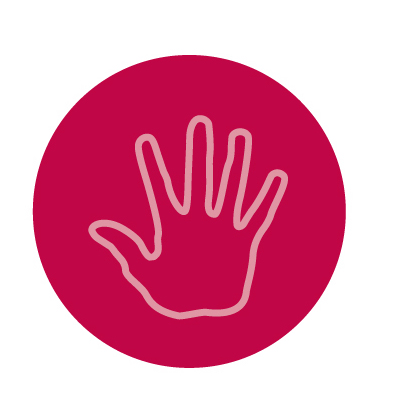
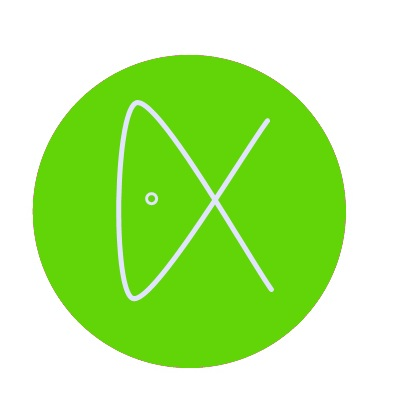
added favico

diff --git a/assets/themes/the-zen/css/main.css b/assets/themes/the-zen/css/main.css
@@ -1,1 +1,1 @@
-@import url(http://fonts.googleapis.com/css?family=PT+Sans);@import url(http://fonts.googleapis.com/css?family=Gentium+Book+Basic);@import url(http://fonts.googleapis.com/css?family=Milonga);article,aside,details,figcaption,figure,footer,header,hgroup,nav,section{display:block}audio,canvas,video{display:inline-block;*display:inline;*zoom:1}audio:not([controls]){display:none}[hidden]{display:none}html{font-size:100%;-webkit-text-size-adjust:100%;-ms-text-size-adjust:100%}html,button,input,select,textarea{font-family:sans-serif;color:#222}body{margin:0;font-size:1em;line-height:1.4}::-moz-selection{background:#bd0b48;color:#fff;text-shadow:none}::selection{background:#bd0b48;color:#fff;text-shadow:none}a{color:#00e}a:visited{color:#551a8b}a:hover{color:#06e}a:focus{outline:thin dotted}a:hover,a:active{outline:0}abbr[title]{border-bottom:1px dotted}b,strong{font-weight:700}blockquote{margin:1em 40px}dfn{font-style:italic}hr{display:block;height:1px;border:0;border-top:1px solid #ccc;margin:1em 0;padding:0}ins{background:#ff9;color:#000;text-decoration:none}mark{background:#ff0;color:#000;font-style:italic;font-weight:700}pre,code,kbd,samp{font-family:monospace,serif;_font-family:'courier new',monospace;font-size:1em}pre{white-space:pre;white-space:pre-wrap;word-wrap:break-word}q{quotes:none}q:before,q:after{content:"";content:none}small{font-size:85%}sub,sup{font-size:75%;line-height:0;position:relative;vertical-align:baseline}sup{top:-.5em}sub{bottom:-.25em}ul,ol{margin:1em 0;padding:0 0 0 40px}dd{margin:0 0 0 40px}nav ul,nav ol{list-style:none;list-style-image:none;margin:0;padding:0}img{border:0;-ms-interpolation-mode:bicubic;vertical-align:middle}svg:not(:root){overflow:hidden}figure{margin:0}form{margin:0}fieldset{border:0;margin:0;padding:0}label{cursor:pointer}legend{border:0;*margin-left:-7px;padding:0;white-space:normal}button,input,select,textarea{font-size:100%;margin:0;vertical-align:baseline;*vertical-align:middle}button,input{line-height:normal}button,input[type="button"],input[type="reset"],input[type="submit"]{cursor:pointer;-webkit-appearance:button;*overflow:visible}button[disabled],input[disabled]{cursor:default}input[type="checkbox"],input[type="radio"]{box-sizing:border-box;padding:0;*width:13px;*height:13px}input[type="search"]{-webkit-appearance:textfield;-moz-box-sizing:content-box;-webkit-box-sizing:content-box;box-sizing:content-box}input[type="search"]::-webkit-search-decoration,input[type="search"]::-webkit-search-cancel-button{-webkit-appearance:none}button::-moz-focus-inner,input::-moz-focus-inner{border:0;padding:0}textarea{overflow:auto;vertical-align:top;resize:vertical}input:invalid,textarea:invalid{background-color:#f0dddd}table{border-collapse:collapse;border-spacing:0}td{vertical-align:top}.chromeframe{margin:.2em 0;background:#ccc;color:#000;padding:.2em 0}body{width:100%;*zoom:1;*zoom:1}body:before,body:after{content:"";display:table}body:after{clear:both}a,a:link,a:visited,a:active{color:#000;text-decoration:none;border-bottom:1px solid #CCC}a:hover,a:link:hover,a:visited:hover,a:active:hover{border-color:#bd0b48}body{overflow-y:scroll;background-color:#fff;color:#000;font-family:'PT Sans',Helvetica,sans-serif;font-size:13px;line-height:1.231;-webkit-font-smoothing:subpixel-antialiased}h1,h2,h3,h4,h5,h6{color:#3A3A3A;margin-top:30px;margin-bottom:25px}h3{font-size:20px;font-weight:600}a:hover{color:#333;cursor:pointer}section#info{padding-left:10px}section#info h1{width:100%;display:block;margin-left:-20px}section#info h1 a{font-family:"Gentium Book Basic",serif;font-weight:900;display:block;border:0;padding-left:20px}section#info h1 a:hover{color:#bd0b48}section#info aside{display:none}section#info aside p{font-size:10px}#tagline{display:block;font-weight:300;margin:-10px 0 0;font-size:12px;line-height:20px;color:#585C60;width:100%;text-align:center}#user_logo{margin:5px;width:64px;height:64px;display:block;border:5px solid #F8F8F8;-webkit-border-top-right-radius:50%;-webkit-border-bottom-right-radius:50%;-webkit-border-bottom-left-radius:50%;-webkit-border-top-left-radius:50%;-moz-border-radius-topright:50%;-moz-border-radius-bottomright:50%;-moz-border-radius-bottomleft:50%;-moz-border-radius-topleft:50%;border-top-right-radius:50%;border-bottom-right-radius:50%;border-bottom-left-radius:50%;border-top-left-radius:50%;-moz-background-clip:padding;-webkit-background-clip:padding-box;background-clip:padding-box;position:fixed;top:5px;margin-left:87%;z-index:3}a.logo{width:42px;height:42px;display:block;margin:11px;border:0}a.logo div.img{background:url(/assets/img/hand.png) center center no-repeat;background-size:75% 75%;height:42px;width:42px;display:block;-webkit-border-top-right-radius:50%;-webkit-border-bottom-right-radius:50%;-webkit-border-bottom-left-radius:50%;-webkit-border-top-left-radius:50%;-moz-border-radius-topright:50%;-moz-border-radius-bottomright:50%;-moz-border-radius-bottomleft:50%;-moz-border-radius-topleft:50%;border-top-right-radius:50%;border-bottom-right-radius:50%;border-bottom-left-radius:50%;border-top-left-radius:50%;-moz-background-clip:padding;-webkit-background-clip:padding-box;background-clip:padding-box;background-color:#bd0b48}.contact{position:absolute;top:-5px;right:5px}.contact li{padding-top:8px;padding-bottom:16px;display:block;text-align:center}.contact li a{font-family:"Gentium Book Basic",serif;font-size:10px;border:3px solid #F8F8F8;-webkit-border-top-right-radius:30px;-webkit-border-bottom-right-radius:30px;-webkit-border-bottom-left-radius:30px;-webkit-border-top-left-radius:30px;-moz-border-radius-topright:30px;-moz-border-radius-bottomright:30px;-moz-border-radius-bottomleft:30px;-moz-border-radius-topleft:30px;border-top-right-radius:30px;border-bottom-right-radius:30px;border-bottom-left-radius:30px;border-top-left-radius:30px;-moz-background-clip:padding;-webkit-background-clip:padding-box;background-clip:padding-box;background-color:#fff;padding:7px;padding-left:15px;padding-right:15px;color:#999}.contact li a:hover{border-color:#bd0b48}.contact li.rss{display:none}section#content{border-left:1px solid #E2E2E2;border-right:1px solid #E2E2E2;border-bottom:1px solid #E2E2E2;background-color:rgba(255,255,255,.95);position:relative;z-index:1;margin-top:5px;border:1px solid rgba(0,0,0,.05);-moz-box-shadow:inset 0 0 10px #BDB9B9;-webkit-box-shadow:inset 0 0 10px #BDB9B9;box-shadow:inset 0 0 10px #BDB9B9}section#content header{border-top:1px solid #E2E2E2;padding:10px 20px;min-height:50px}section#content header h2{font-size:2em;margin:0}section#content #welcome{border-bottom:3px solid #BD0B48;padding-top:50px;}section#content #welcome h2,section#content #welcome p{margin:7px 0}section#content #welcome blockquote a{font-weight:700;color:#BD0B48}h3.date{margin-bottom:5px;text-transform:uppercase;color:#000;font-weight:800;font-size:14px;letter-spacing:1px}article{padding:10px 20px;position:relative;border-bottom:1px solid #bd0b48}article.post-page{border:0}article p{font-size:15px;line-height:25px;margin-top:20px;margin-bottom:20px;color:#4D4D4D;font-family:'proxima-nova',sans-serif;font-weight:400}article h1{font-size:24px}article h2{margin-top:15px}article h3{margin:10px 0;font-size:18px}article h4{margin:10px 0;font-size:16px;font-weight:300}article h5{font-size:16px}article ul,article ol{font-size:15px;line-height:25px;color:#4D4D4D;font-family:'proxima-nova',sans-serif;font-weight:400;width:85%}article blockquote{border-left:10px solid #bd0b48;padding-left:20px;display:inline-block;padding-bottom:0;margin-left:0;font-size:15px;line-height:25px;margin-top:5px;margin-bottom:10px;color:#4D4D4D;font-family:'proxima-nova',sans-serif}article footer{border-top:1px solid #bd0b48;margin-top:10px;padding-top:10px;position:relative}article footer nav{height:30px;float:left}article footer nav li{float:left;margin-right:5px;display:inline-block;font-size:10px}article footer p{font-size:10px;margin:0;text-align:right}.meta ul,.meta p{margin:5px 0;font-size:1.1em}.meta li{display:inline-block;line-height:1em;margin-right:10px}.meta li.list-head{margin-right:0}.list-category span,.list-tag span,.tag_box span{background-color:#8d0836;padding:1px 5px;-webkit-border-top-right-radius:7px;-webkit-border-bottom-right-radius:7px;-webkit-border-bottom-left-radius:7px;-webkit-border-top-left-radius:7px;-moz-border-radius-topright:7px;-moz-border-radius-bottomright:7px;-moz-border-radius-bottomleft:7px;-moz-border-radius-topleft:7px;border-top-right-radius:7px;border-bottom-right-radius:7px;border-bottom-left-radius:7px;border-top-left-radius:7px;-moz-background-clip:padding;-webkit-background-clip:padding-box;background-clip:padding-box;color:#fff;text-transform:uppercase;margin:0 6px 0 0;display:inline-block;position:relative;vertical-align:middle;top:-2px;font-weight:700;font-size:10px;-webkit-transition:all .3s ease-out;-moz-transition:all .3s ease-out;transition:all .3s ease-out}.list-category a,.list-tag a{margin-bottom:0;text-transform:capitalize;border:0}.list-category a:hover span,.list-tag a:hover span{background-color:#bd0b48}.vcard2 li{display:inline-block;padding-right:10px}.nav-global{text-transform:lowercase;font-variant:small-caps;font-size:1.2em;position:fixed;text-align:right;top:15px;width:220px;margin-right:-110px;right:50%;z-index:2}.nav-global li{margin:5px 0 0;float:left}.nav-global li a{border:3px solid #F8F8F8;border-radius:30px;-moz-border-radius:30px;-webkit-border-radius:30px;background-color:#fff;padding:7px;padding-left:15px;padding-right:15px;color:#999}.nav-global li a:hover{border-color:#bd0b48}.nav-global .active{opacity:.5}.nav-global .active:hover{opacity:1}.tag_box{list-style:none;padding:.8125em;max-width:400px;background:url('/assets/themes/the-zen/skin/100-90-5-monochrome.png') repeat 0 0 #999;list-style:none;-webkit-border-radius:3px;-moz-border-radius:3px;border-radius:3px;-moz-background-clip:padding;-webkit-background-clip:padding-box;background-clip:padding-box;-webkit-box-shadow:inset 0 1px 1px rgba(0,0,0,.2),0 1px 0 rgba(255,255,255,.4);-moz-box-shadow:inset 0 1px 1px rgba(0,0,0,.2),0 1px 0 rgba(255,255,255,.4);box-shadow:inset 0 1px 1px rgba(0,0,0,.4),0 1px 0 rgba(255,255,255,.4)}.tag_box li{display:inline-block;line-height:normal;vertical-align:middle}.tag_box a{background-color:#ccc;float:left;border:1px solid #2c0311;padding:3px 6px 3px 6px;-webkit-border-radius:3px;-moz-border-radius:3px;border-radius:3px;margin:5px;-moz-background-clip:padding;-webkit-background-clip:padding-box;background-clip:padding-box;text-shadow:0 -1px 0 rgba(255,255,255,.4);-webkit-box-shadow:inset 0 1px 0 rgba(255,255,255,.4),0 1px 1px rgba(0,0,0,.2);-moz-box-shadow:inset 0 1px 0 rgba(255,255,255,.4),0 1px 1px rgba(0,0,0,.2);box-shadow:inset 0 1px 0 rgba(255,255,255,.4),0 1px 1px rgba(0,0,0,.2);-webkit-transition:all .3s ease-out;-moz-transition:all .3s ease-out;transition:all .3s ease-out;-webkit-user-select:none;-moz-user-select:none;-ms-user-select:none;user-select:none}.tag_box a:active{-webkit-box-shadow:inset 0 1px 4px rgba(0,0,0,.6);-moz-box-shadow:inset 0 1px 4px rgba(0,0,0,.6);box-shadow:inset 0 1px 4px rgba(0,0,0,.6);background:#000;border:solid #000}.tag_box a:hover{background-color:#bd0b48;border:1px solid #000}.tag_box a:hover span{background-color:#e1e1e1;color:#bd0b48}.long-list h2{margin:10px 0;text-transform:capitalize}.long-list ul{margin:0}#headshot{width:100%}#headshot img{display:block;margin:0 auto}@media only screen and (min-width: 775px){section#info{ display:inline;float:left;width:140px;margin:0 10px;position:fixed;top:0;left:0;right:auto;bottom:0;min-height:525px;z-index:0;margin:0;padding:25px}section#info h1{margin-top:30px}section#info h1 a{display:block;border:0}section#info header{width:225px}section#info aside{display:block;position:absolute;left:25px;bottom:15px;font-size:10px;color:#777;width:125px}#user_logo{margin:10px 0 0 730px;-webkit-transition:border-color 2s ease-out;-moz-transition:border-color 2s ease-out;transition:border-color 2s ease-out}#user_logo:hover{border-color:#bd0b48}#tagline{text-align:left;margin-bottom:20px}.contact{position:relative}.contact li{clear:both;display:block;padding-top:10px;padding-bottom:20px;text-align:left}.contact li a{border:3px solid #F8F8F8;border-radius:30px;-moz-border-radius:30px;-webkit-border-radius:30px;background-color:#fff;padding:7px;padding-left:15px;padding-right:15px;color:#999}.contact li a:hover{border-color:#bd0b48}.contact li.rss{display:block}section#content{width:570px;margin-left:170px;padding-top:15px;margin-top:0}section#content header{border:0}article h3.date{top:10px;width:120px;font-style:italic}article p{width:500px}article h2,article h3,article h4,article h5{width:500px}article footer p{width:100%}article ul,article ol{width:425px}.nav-global{margin:10px 0 0 658px;top:95px;right:auto;text-transform:lowercase;font-variant:small-caps;font-size:1.2em}.nav-global li{display:block;float:none;margin-bottom:30px;text-align:center}.nav-global li:last-child::after{content:''}#headshot{float:right;width:auto;display:inline-block;margin:20px 20px 70px 20px}}@media only screen and (min-width: 1000px){section#info{ display:inline;float:left;width:300px;margin:0 10px;padding:30px 10px}section#info h1 a{font-size:38px;line-height:60px}section#info aside{width:200px;left:20px}#user_logo{width:120px;height:120px;margin:20px 0 0 893px;right:20px}a.logo{width:120px;height:120px;margin:18px}a.logo div.img{height:84px;width:84px}#tagline{font-size:17px;line-height:25px;color:#585C60;width:200px}.contact{margin-top:50px}.contact li a{font-size:16px}section#content{width:625px;margin:0 auto}section#content header{padding:10px 40px;padding-left:50px}section#content header h2{font-size:2em}article{padding:10px 40px;padding-left:50px}article h2{margin-top:20px}article h3.date{top:47px}article h2,article h3,article h4,article h5,article p{width:525px}article blockquote,article blockquote p{width:450px}.nav-global{top:160px;right:-25px}}.no-bullet{list-style-type:none}.no-style{list-style-type:none;padding:0}.ir{border:0;font:0/0 a;text-shadow:none;color:transparent;background-color:transparent}.hidden{display:none!important;visibility:hidden}.visuallyhidden{border:0;clip:rect(0);height:1px;margin:-1px;overflow:hidden;padding:0;position:absolute;width:1px}.visuallyhidden.focusable:active,.visuallyhidden.focusable:focus{clip:auto;height:auto;margin:0;overflow:visible;position:static;width:auto}.invisible{visibility:hidden}.clearfix:before,.clearfix:after{content:"";display:table}.clearfix:after{clear:both}.clearfix{*zoom:1}@media print{*{ background:transparent!important;color:#000!important;box-shadow:none!important;text-shadow:none!important}a,a:visited{text-decoration:underline}a[href]:after{content:" (" attr(href) ")"}abbr[title]:after{content:" (" attr(title) ")"}.ir a:after,a[href^="javascript:"]:after,a[href^="#"]:after{content:""}pre,blockquote{border:1px solid #999;page-break-inside:avoid}thead{display:table-header-group}tr,img{page-break-inside:avoid}img{max-width:100%!important}@page{margin:.5cm}p,h2,h3{orphans:3;widows:3}h2,h3{page-break-after:avoid}}
+@import url(http://fonts.googleapis.com/css?family=PT+Sans);@import url(http://fonts.googleapis.com/css?family=Gentium+Book+Basic);@import url(http://fonts.googleapis.com/css?family=Milonga);article,aside,details,figcaption,figure,footer,header,hgroup,nav,section{display:block}audio,canvas,video{display:inline-block;*display:inline;*zoom:1}audio:not([controls]){display:none}[hidden]{display:none}html{font-size:100%;-webkit-text-size-adjust:100%;-ms-text-size-adjust:100%}html,button,input,select,textarea{font-family:sans-serif;color:#222}body{margin:0;font-size:1em;line-height:1.4}::-moz-selection{background:#61D507;color:#fff;text-shadow:none}::selection{background:#61D507;color:#fff;text-shadow:none}a{color:#00e}a:visited{color:#551a8b}a:hover{color:#06e}a:focus{outline:thin dotted}a:hover,a:active{outline:0}abbr[title]{border-bottom:1px dotted}b,strong{font-weight:700}blockquote{margin:1em 40px}dfn{font-style:italic}hr{display:block;height:1px;border:0;border-top:1px solid #ccc;margin:1em 0;padding:0}ins{background:#ff9;color:#000;text-decoration:none}mark{background:#ff0;color:#000;font-style:italic;font-weight:700}pre,code,kbd,samp{font-family:monospace,serif;_font-family:'courier new',monospace;font-size:1em}pre{white-space:pre;white-space:pre-wrap;word-wrap:break-word}q{quotes:none}q:before,q:after{content:"";content:none}small{font-size:85%}sub,sup{font-size:75%;line-height:0;position:relative;vertical-align:baseline}sup{top:-.5em}sub{bottom:-.25em}ul,ol{margin:1em 0;padding:0 0 0 40px}dd{margin:0 0 0 40px}nav ul,nav ol{list-style:none;list-style-image:none;margin:0;padding:0}img{border:0;-ms-interpolation-mode:bicubic;vertical-align:middle}svg:not(:root){overflow:hidden}figure{margin:0}form{margin:0}fieldset{border:0;margin:0;padding:0}label{cursor:pointer}legend{border:0;*margin-left:-7px;padding:0;white-space:normal}button,input,select,textarea{font-size:100%;margin:0;vertical-align:baseline;*vertical-align:middle}button,input{line-height:normal}button,input[type="button"],input[type="reset"],input[type="submit"]{cursor:pointer;-webkit-appearance:button;*overflow:visible}button[disabled],input[disabled]{cursor:default}input[type="checkbox"],input[type="radio"]{box-sizing:border-box;padding:0;*width:13px;*height:13px}input[type="search"]{-webkit-appearance:textfield;-moz-box-sizing:content-box;-webkit-box-sizing:content-box;box-sizing:content-box}input[type="search"]::-webkit-search-decoration,input[type="search"]::-webkit-search-cancel-button{-webkit-appearance:none}button::-moz-focus-inner,input::-moz-focus-inner{border:0;padding:0}textarea{overflow:auto;vertical-align:top;resize:vertical}input:invalid,textarea:invalid{background-color:#f0dddd}table{border-collapse:collapse;border-spacing:0}td{vertical-align:top}.chromeframe{margin:.2em 0;background:#ccc;color:#000;padding:.2em 0}body{width:100%;*zoom:1;*zoom:1}body:before,body:after{content:"";display:table}body:after{clear:both}a,a:link,a:visited,a:active{color:#000;text-decoration:none;border-bottom:1px solid #CCC}a:hover,a:link:hover,a:visited:hover,a:active:hover{border-color:#61D507}body{overflow-y:scroll;background-color:#fff;color:#000;font-family:'PT Sans',Helvetica,sans-serif;font-size:13px;line-height:1.231;-webkit-font-smoothing:subpixel-antialiased}h1,h2,h3,h4,h5,h6{color:#3A3A3A;margin-top:30px;margin-bottom:25px}h3{font-size:20px;font-weight:600}a:hover{color:#333;cursor:pointer}section#info{padding-left:10px}section#info h1{width:100%;display:block;margin-left:-20px}section#info h1 a{font-family:"Gentium Book Basic",serif;font-weight:900;display:block;border:0;padding-left:20px}section#info h1 a:hover{color:#61D507}section#info aside{display:none}section#info aside p{font-size:10px}#tagline{display:block;font-weight:300;margin:-10px 0 0;font-size:12px;line-height:20px;color:#585C60;width:100%;text-align:center}#user_logo{margin:5px;width:64px;height:64px;display:block;border:5px solid #F8F8F8;-webkit-border-top-right-radius:50%;-webkit-border-bottom-right-radius:50%;-webkit-border-bottom-left-radius:50%;-webkit-border-top-left-radius:50%;-moz-border-radius-topright:50%;-moz-border-radius-bottomright:50%;-moz-border-radius-bottomleft:50%;-moz-border-radius-topleft:50%;border-top-right-radius:50%;border-bottom-right-radius:50%;border-bottom-left-radius:50%;border-top-left-radius:50%;-moz-background-clip:padding;-webkit-background-clip:padding-box;background-clip:padding-box;position:fixed;top:5px;margin-left:87%;z-index:3}a.logo{width:42px;height:42px;display:block;margin:11px;border:0}a.logo div.img{background:url(/assets/img/hand.png) center center no-repeat;background-size:75% 75%;height:42px;width:42px;display:block;-webkit-border-top-right-radius:50%;-webkit-border-bottom-right-radius:50%;-webkit-border-bottom-left-radius:50%;-webkit-border-top-left-radius:50%;-moz-border-radius-topright:50%;-moz-border-radius-bottomright:50%;-moz-border-radius-bottomleft:50%;-moz-border-radius-topleft:50%;border-top-right-radius:50%;border-bottom-right-radius:50%;border-bottom-left-radius:50%;border-top-left-radius:50%;-moz-background-clip:padding;-webkit-background-clip:padding-box;background-clip:padding-box;background-color:#61D507}.contact{position:absolute;top:-5px;right:5px}.contact li{padding-top:8px;padding-bottom:16px;display:block;text-align:center}.contact li a{font-family:"Gentium Book Basic",serif;font-size:10px;border:3px solid #F8F8F8;-webkit-border-top-right-radius:30px;-webkit-border-bottom-right-radius:30px;-webkit-border-bottom-left-radius:30px;-webkit-border-top-left-radius:30px;-moz-border-radius-topright:30px;-moz-border-radius-bottomright:30px;-moz-border-radius-bottomleft:30px;-moz-border-radius-topleft:30px;border-top-right-radius:30px;border-bottom-right-radius:30px;border-bottom-left-radius:30px;border-top-left-radius:30px;-moz-background-clip:padding;-webkit-background-clip:padding-box;background-clip:padding-box;background-color:#fff;padding:7px;padding-left:15px;padding-right:15px;color:#999}.contact li a:hover{border-color:#61D507}.contact li.rss{display:none}section#content{border-left:1px solid #E2E2E2;border-right:1px solid #E2E2E2;border-bottom:1px solid #E2E2E2;background-color:rgba(255,255,255,.95);position:relative;z-index:1;margin-top:5px;border:1px solid rgba(0,0,0,.05);-moz-box-shadow:inset 0 0 10px #BDB9B9;-webkit-box-shadow:inset 0 0 10px #BDB9B9;box-shadow:inset 0 0 10px #BDB9B9}section#content header{border-top:1px solid #E2E2E2;padding:10px 20px;min-height:50px}section#content header h2{font-size:2em;margin:0}section#content #welcome{border-bottom:3px solid #61D507;padding-top:50px;}section#content #welcome h2,section#content #welcome p{margin:7px 0}section#content #welcome blockquote a{font-weight:700;color:#61D507}h3.date{margin-bottom:5px;text-transform:uppercase;color:#000;font-weight:800;font-size:14px;letter-spacing:1px}article{padding:10px 20px;position:relative;border-bottom:1px solid #61D507}article.post-page{border:0}article p{font-size:15px;line-height:25px;margin-top:20px;margin-bottom:20px;color:#4D4D4D;font-family:'proxima-nova',sans-serif;font-weight:400}article h1{font-size:24px}article h2{margin-top:15px}article h3{margin:10px 0;font-size:18px}article h4{margin:10px 0;font-size:16px;font-weight:300}article h5{font-size:16px}article ul,article ol{font-size:15px;line-height:25px;color:#4D4D4D;font-family:'proxima-nova',sans-serif;font-weight:400;width:85%}article blockquote{border-left:10px solid #61D507;padding-left:20px;display:inline-block;padding-bottom:0;margin-left:0;font-size:15px;line-height:25px;margin-top:5px;margin-bottom:10px;color:#4D4D4D;font-family:'proxima-nova',sans-serif}article footer{border-top:1px solid #61D507;margin-top:10px;padding-top:10px;position:relative}article footer nav{height:30px;float:left}article footer nav li{float:left;margin-right:5px;display:inline-block;font-size:10px}article footer p{font-size:10px;margin:0;text-align:right}.meta ul,.meta p{margin:5px 0;font-size:1.1em}.meta li{display:inline-block;line-height:1em;margin-right:10px}.meta li.list-head{margin-right:0}.list-category span,.list-tag span,.tag_box span{background-color:#8d0836;padding:1px 5px;-webkit-border-top-right-radius:7px;-webkit-border-bottom-right-radius:7px;-webkit-border-bottom-left-radius:7px;-webkit-border-top-left-radius:7px;-moz-border-radius-topright:7px;-moz-border-radius-bottomright:7px;-moz-border-radius-bottomleft:7px;-moz-border-radius-topleft:7px;border-top-right-radius:7px;border-bottom-right-radius:7px;border-bottom-left-radius:7px;border-top-left-radius:7px;-moz-background-clip:padding;-webkit-background-clip:padding-box;background-clip:padding-box;color:#fff;text-transform:uppercase;margin:0 6px 0 0;display:inline-block;position:relative;vertical-align:middle;top:-2px;font-weight:700;font-size:10px;-webkit-transition:all .3s ease-out;-moz-transition:all .3s ease-out;transition:all .3s ease-out}.list-category a,.list-tag a{margin-bottom:0;text-transform:capitalize;border:0}.list-category a:hover span,.list-tag a:hover span{background-color:#61D507}.vcard2 li{display:inline-block;padding-right:10px}.nav-global{text-transform:lowercase;font-variant:small-caps;font-size:1.2em;position:fixed;text-align:right;top:15px;width:220px;margin-right:-110px;right:50%;z-index:2}.nav-global li{margin:5px 0 0;float:left}.nav-global li a{border:3px solid #F8F8F8;border-radius:30px;-moz-border-radius:30px;-webkit-border-radius:30px;background-color:#fff;padding:7px;padding-left:15px;padding-right:15px;color:#999}.nav-global li a:hover{border-color:#61D507}.nav-global .active{opacity:.5}.nav-global .active:hover{opacity:1}.tag_box{list-style:none;padding:.8125em;max-width:400px;background:url('/assets/themes/the-zen/skin/100-90-5-monochrome.png') repeat 0 0 #999;list-style:none;-webkit-border-radius:3px;-moz-border-radius:3px;border-radius:3px;-moz-background-clip:padding;-webkit-background-clip:padding-box;background-clip:padding-box;-webkit-box-shadow:inset 0 1px 1px rgba(0,0,0,.2),0 1px 0 rgba(255,255,255,.4);-moz-box-shadow:inset 0 1px 1px rgba(0,0,0,.2),0 1px 0 rgba(255,255,255,.4);box-shadow:inset 0 1px 1px rgba(0,0,0,.4),0 1px 0 rgba(255,255,255,.4)}.tag_box li{display:inline-block;line-height:normal;vertical-align:middle}.tag_box a{background-color:#ccc;float:left;border:1px solid #2c0311;padding:3px 6px 3px 6px;-webkit-border-radius:3px;-moz-border-radius:3px;border-radius:3px;margin:5px;-moz-background-clip:padding;-webkit-background-clip:padding-box;background-clip:padding-box;text-shadow:0 -1px 0 rgba(255,255,255,.4);-webkit-box-shadow:inset 0 1px 0 rgba(255,255,255,.4),0 1px 1px rgba(0,0,0,.2);-moz-box-shadow:inset 0 1px 0 rgba(255,255,255,.4),0 1px 1px rgba(0,0,0,.2);box-shadow:inset 0 1px 0 rgba(255,255,255,.4),0 1px 1px rgba(0,0,0,.2);-webkit-transition:all .3s ease-out;-moz-transition:all .3s ease-out;transition:all .3s ease-out;-webkit-user-select:none;-moz-user-select:none;-ms-user-select:none;user-select:none}.tag_box a:active{-webkit-box-shadow:inset 0 1px 4px rgba(0,0,0,.6);-moz-box-shadow:inset 0 1px 4px rgba(0,0,0,.6);box-shadow:inset 0 1px 4px rgba(0,0,0,.6);background:#000;border:solid #000}.tag_box a:hover{background-color:#61D507;border:1px solid #000}.tag_box a:hover span{background-color:#e1e1e1;color:#61D507}.long-list h2{margin:10px 0;text-transform:capitalize}.long-list ul{margin:0}#headshot{width:100%}#headshot img{display:block;margin:0 auto}@media only screen and (min-width: 775px){section#info{ display:inline;float:left;width:140px;margin:0 10px;position:fixed;top:0;left:0;right:auto;bottom:0;min-height:525px;z-index:0;margin:0;padding:25px}section#info h1{margin-top:30px}section#info h1 a{display:block;border:0}section#info header{width:225px}section#info aside{display:block;position:absolute;left:25px;bottom:15px;font-size:10px;color:#777;width:125px}#user_logo{margin:10px 0 0 730px;-webkit-transition:border-color 2s ease-out;-moz-transition:border-color 2s ease-out;transition:border-color 2s ease-out}#user_logo:hover{border-color:#61D507}#tagline{text-align:left;margin-bottom:20px}.contact{position:relative}.contact li{clear:both;display:block;padding-top:10px;padding-bottom:20px;text-align:left}.contact li a{border:3px solid #F8F8F8;border-radius:30px;-moz-border-radius:30px;-webkit-border-radius:30px;background-color:#fff;padding:7px;padding-left:15px;padding-right:15px;color:#999}.contact li a:hover{border-color:#61D507}.contact li.rss{display:block}section#content{width:570px;margin-left:170px;padding-top:15px;margin-top:0}section#content header{border:0}article h3.date{top:10px;width:120px;font-style:italic}article p{width:500px}article h2,article h3,article h4,article h5{width:500px}article footer p{width:100%}article ul,article ol{width:425px}.nav-global{margin:10px 0 0 658px;top:95px;right:auto;text-transform:lowercase;font-variant:small-caps;font-size:1.2em}.nav-global li{display:block;float:none;margin-bottom:30px;text-align:center}.nav-global li:last-child::after{content:''}#headshot{float:right;width:auto;display:inline-block;margin:20px 20px 70px 20px}}@media only screen and (min-width: 1000px){section#info{ display:inline;float:left;width:300px;margin:0 10px;padding:30px 10px}section#info h1 a{font-size:38px;line-height:60px}section#info aside{width:200px;left:20px}#user_logo{width:120px;height:120px;margin:20px 0 0 893px;right:20px}a.logo{width:120px;height:120px;margin:18px}a.logo div.img{height:84px;width:84px}#tagline{font-size:17px;line-height:25px;color:#585C60;width:200px}.contact{margin-top:50px}.contact li a{font-size:16px}section#content{width:625px;margin:0 auto}section#content header{padding:10px 40px;padding-left:50px}section#content header h2{font-size:2em}article{padding:10px 40px;padding-left:50px}article h2{margin-top:20px}article h3.date{top:47px}article h2,article h3,article h4,article h5,article p{width:525px}article blockquote,article blockquote p{width:450px}.nav-global{top:160px;right:-25px}}.no-bullet{list-style-type:none}.no-style{list-style-type:none;padding:0}.ir{border:0;font:0/0 a;text-shadow:none;color:transparent;background-color:transparent}.hidden{display:none!important;visibility:hidden}.visuallyhidden{border:0;clip:rect(0);height:1px;margin:-1px;overflow:hidden;padding:0;position:absolute;width:1px}.visuallyhidden.focusable:active,.visuallyhidden.focusable:focus{clip:auto;height:auto;margin:0;overflow:visible;position:static;width:auto}.invisible{visibility:hidden}.clearfix:before,.clearfix:after{content:"";display:table}.clearfix:after{clear:both}.clearfix{*zoom:1}@media print{*{ background:transparent!important;color:#000!important;box-shadow:none!important;text-shadow:none!important}a,a:visited{text-decoration:underline}a[href]:after{content:" (" attr(href) ")"}abbr[title]:after{content:" (" attr(title) ")"}.ir a:after,a[href^="javascript:"]:after,a[href^="#"]:after{content:""}pre,blockquote{border:1px solid #999;page-break-inside:avoid}thead{display:table-header-group}tr,img{page-break-inside:avoid}img{max-width:100%!important}@page{margin:.5cm}p,h2,h3{orphans:3;widows:3}h2,h3{page-break-after:avoid}}
